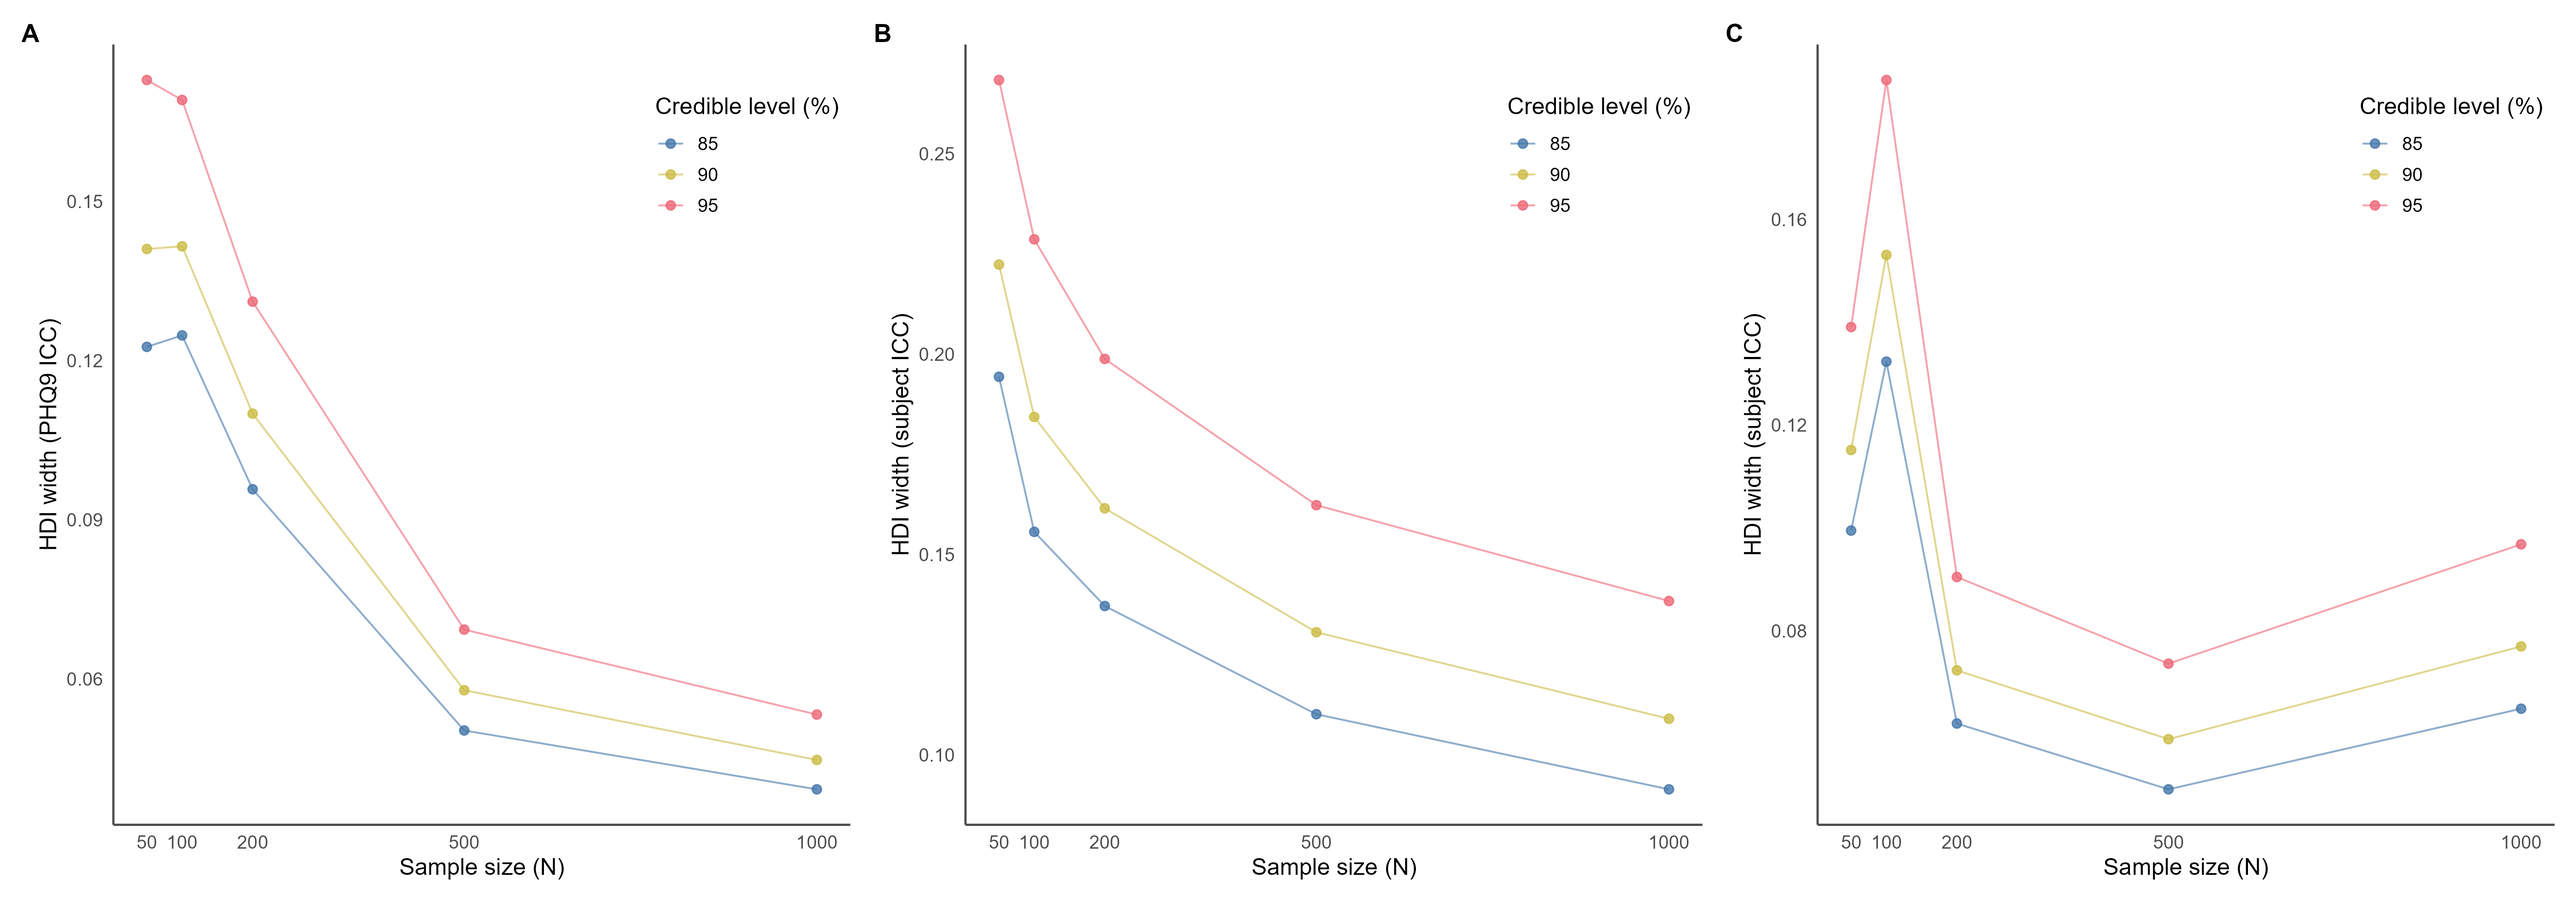
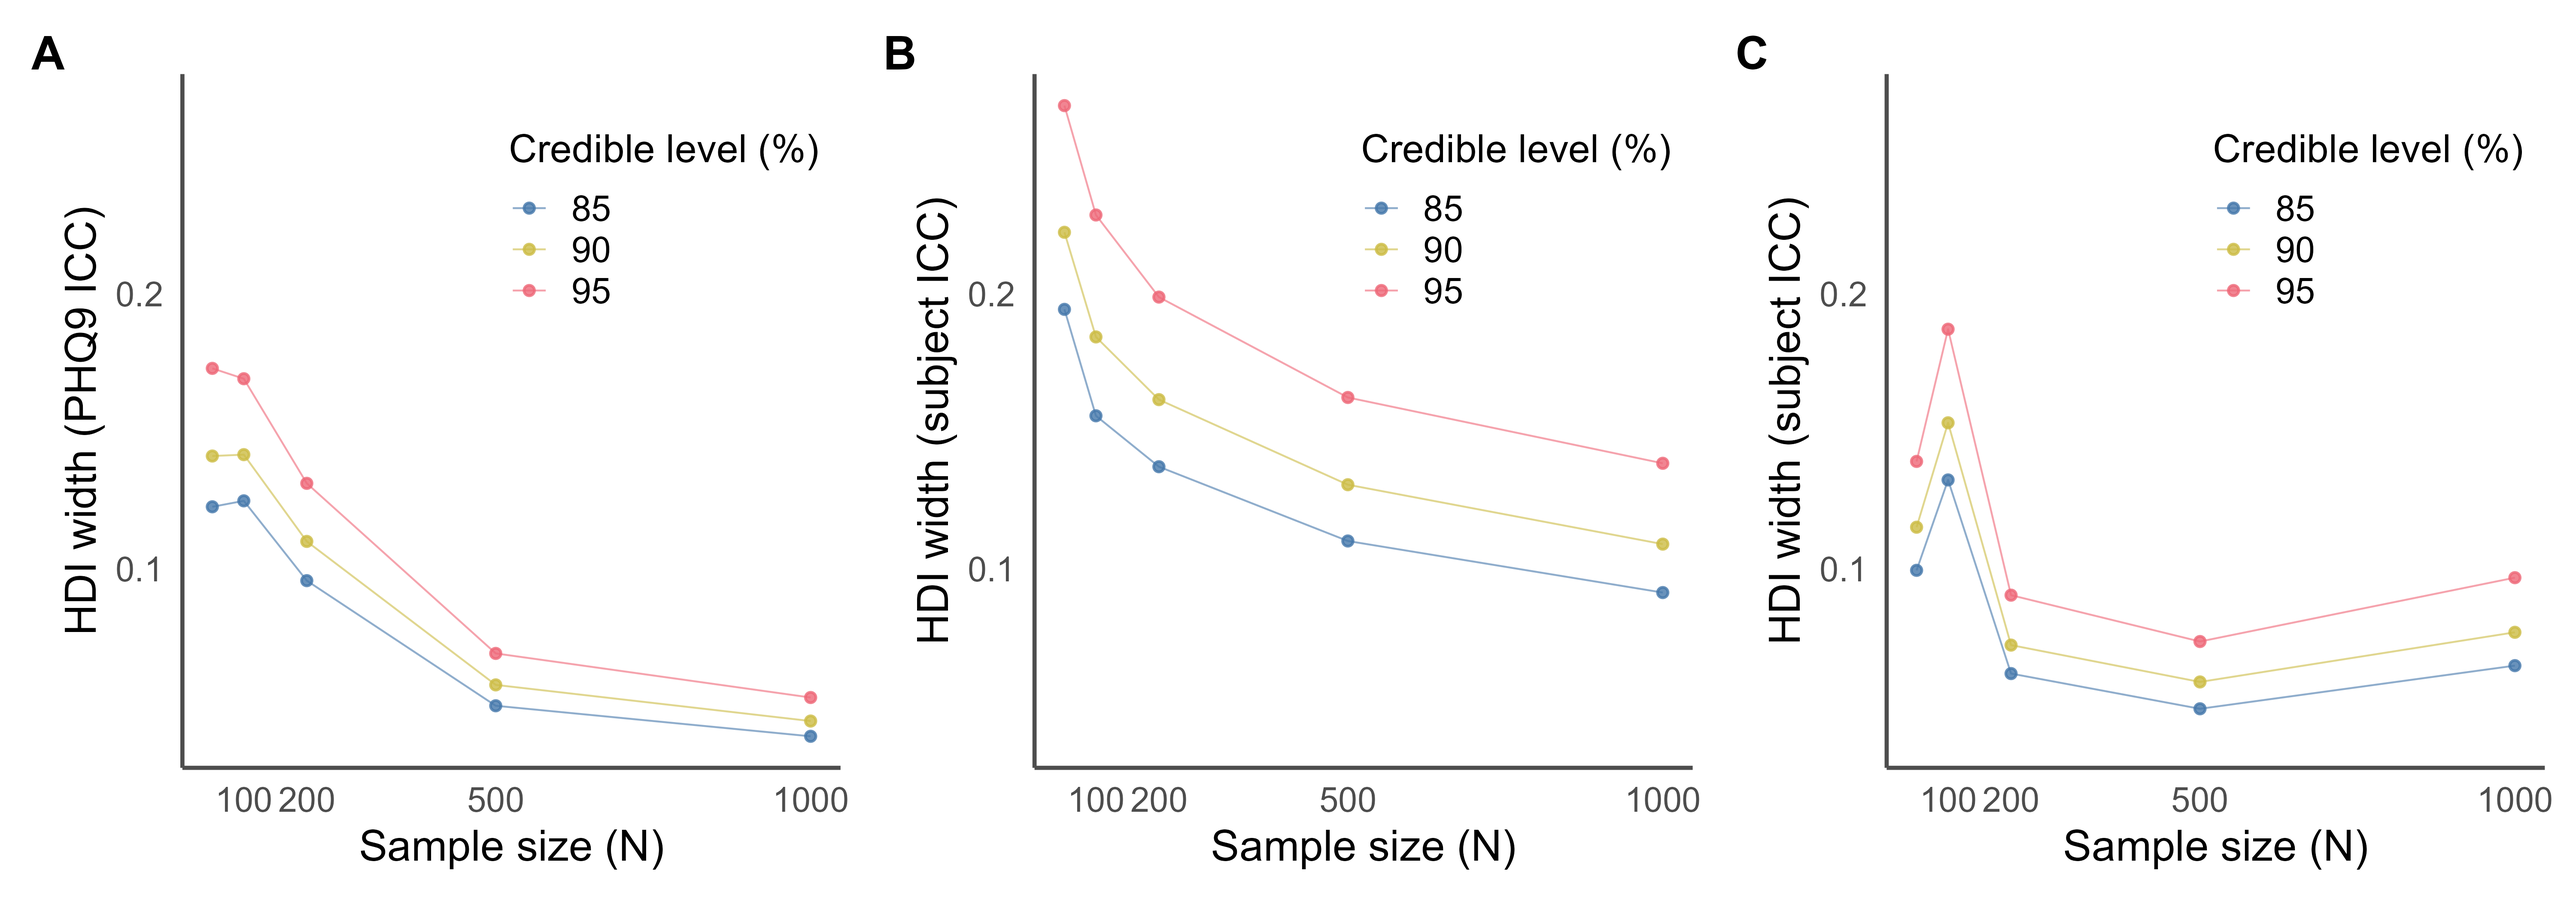
correction to panels and prior tables

diff --git a/analysis/beta_tau_per_pairwise/summary.md b/analysis/beta_tau_per_pairwise/summary.md
@@ -44,6 +44,28 @@ Bradley-Terry table by `(prolific_id, time)`.
 population; a `prolific_id` present in `phq9_results.csv` but absent from the CBCU
 table is not added as a new row (not a full join).
 
-## 3. Findings / Summary
+## 3. Priors
+
+Defined in `models/bradley_terry_beta_tau_per/bradley_terry_beta_tau_per.stan`, `model {}`
+block (not in `code/fit_model.R`, which only calls `model$sample()` on the already-compiled
+Stan model).
+
+| Parameter | Prior | Justification (from the .stan file) |
+|---|---|---|
+| `mu_log_beta` | Normal(0, 2) | Group-level mean on the log-beta scale; not otherwise commented in the model file. |
+| `sigma_log_beta` | Exponential(2) | Group-level SD on the log-beta scale; not otherwise commented in the model file. |
+| `beta` (subject) | Lognormal(`mu_log_beta`, `sigma_log_beta`) | Lognormal keeps subject-level choice sensitivity strictly positive. |
+| `mu_tau` | Normal(0, 2) | Group-level mean for the burden-threshold parameter; not otherwise commented. |
+| `sigma_tau` | Exponential(2) | Group-level SD for `tau`; not otherwise commented. |
+| `tau` (subject) | Normal(`mu_tau`, `sigma_tau`) | `tau` is left unconstrained (no lower/upper bound in `parameters {}`). |
+| `mu_logit_key_decay` | Normal(0, 1.5) | `# ASSUMED[no scale given]` in the .stan file: logistic-transformed decay with a normal hyperprior on the logit scale, matching how `tau` is handled unconstrained — no scale for `key_decay` was specified elsewhere, so this was the model author's choice. |
+| `sigma_key_decay` | Exponential(2) | Group-level SD on the logit scale for `key_decay`; not otherwise commented. |
+| `logit_key_decay` (subject) | Normal(`mu_logit_key_decay`, `sigma_key_decay`) | Transformed via `inv_logit()` in `transformed parameters {}` so subject-level `key_decay` is constrained to (0, 1). |
+| `mu_rho` | Normal(0, 2) | Group-level mean for the perseveration weight `rho`; not otherwise commented. |
+| `sigma_rho` | Exponential(2) | Group-level SD for `rho`; not otherwise commented. |
+| `rho` (subject) | Normal(`mu_rho`, `sigma_rho`) | `rho` is left unconstrained, like `tau`. |
+| `u_raw` (utilities) | Normal(0, 1) | Commented in the .stan file as a "weak prior... to provide initial geometry before transformation" — `u_raw` is later standardized per subject to mean 0 / SD 1 in `transformed parameters {}` to produce `u_matrix`, so this prior only shapes the initial (unconstrained) geometry, not the final utility scale. |
+
+## 4. Findings / Summary
 
 * (Leave this section blank until the model is completely fitted and evaluated).

diff --git a/simulation/reliability_sample_size_subject_item_crossed/summary.md b/simulation/reliability_sample_size_subject_item_crossed/summary.md
@@ -207,6 +207,20 @@ after fitting and added as columns to that outcome's results table (`max_rhat`,
 `n_divergent` in `sweep_results_cbcu` / `sweep_results_phq9`) -- a single set of
 convergence columns per table, since each table holds only one outcome's fits.
 
-## 3. Findings / Summary
+## 3. Priors
+
+Defined in `code/run_sweep.R` (passed into `brm(..., prior = priors)` inside
+`code/fit_and_extract.R`) — this model is fit via **brms**, not a hand-written Stan file,
+so priors are `brms::prior()` calls rather than a `model {}` block. Two separate prior
+sets exist, one per outcome (CBCU utilities, PHQ9 items), since each outcome has its own
+generative scale.
+
+| Parameter | CBCU prior | PHQ9 prior | Justification |
+|---|---|---|---|
+| `Intercept` | Normal(0, 1) | Normal(1.5, 1) | Weakly informative, centered at each outcome's own known generative `grand_mean` (0 for CBCU's standardized scale, 1.5 for PHQ9's 0–3 item midpoint) — mirrors both single-random-effect sibling studies' practice of matching the prior's center to the data's known generative center. |
+| `sd` (group = `subject`) | Cauchy(0, 1) | Cauchy(0, 1) | Given separately per group rather than one shared `class = "sd"` prior, since subject and item variances are expected to differ in scale (especially for PHQ9: `sigma_subject ≈ 1.17` vs `sigma_item = 0.4`), so each group's posterior can be shaped independently. |
+| `sd` (group = `item`) | Cauchy(0, 1) | Cauchy(0, 1) | Same rationale as the subject-group `sd` prior above — kept separate so the item variance component isn't forced to share a prior with the (typically larger) subject variance component. |
+
+## 4. Findings / Summary
 
 * (Leave this section blank until both sweeps have been run and results reviewed).

diff --git a/simulation/reliability_difference_sample_size_ICC/summary.md b/simulation/reliability_difference_sample_size_ICC/summary.md
@@ -101,6 +101,20 @@ and added as columns to the results table (`cbcu_max_rhat`, `cbcu_n_divergent`,
 `phq9_max_rhat`, `phq9_n_divergent` in `sweep_results`), rather than produced as
 per-fit diagnostic files.
 
-## 3. Findings / Summary
+## 3. Priors
+
+Defined in `code/run_sweep.R` (passed into `brm(..., prior = priors)` inside
+`code/fit_and_extract.R`) — fit via **brms**, not a hand-written Stan file. Unlike the
+`reliability_sample_size_subject_item_crossed` sibling, only ONE prior set exists here:
+the same `priors` object is reused for both the CBCU fit and the PHQ9 fit within each
+replicate (`fit_and_extract(cbcu_df, phq9_df, priors)`), rather than a separate prior set
+per outcome.
+
+| Parameter | Prior | Justification |
+|---|---|---|
+| `Intercept` | Normal(0, 1) | The simulated data is centered at 0 by construction (both `subject_intercept` and the residual are zero-mean for both tasks), so a weakly-informative prior centered at 0 matches the known scale without pre-judging the estimate. |
+| `sd` (shared, `class = "sd"`) | Cauchy(0, 1) | A standard weakly-informative half-Cauchy for the random-intercept SD (brms truncates to positive values automatically), applied via one shared `class = "sd"` prior since this model has only one random effect (the subject intercept) — heavy-tailed enough to not overly constrain between-subject variability. No `b` (fixed-slope) or `cor` prior is needed: there is no fixed-effect predictor and no random slope in `y ~ 1 + (1 \| subject)`. |
+
+## 4. Findings / Summary
 
 * (Leave this section blank until the sweep has been run and results reviewed).
